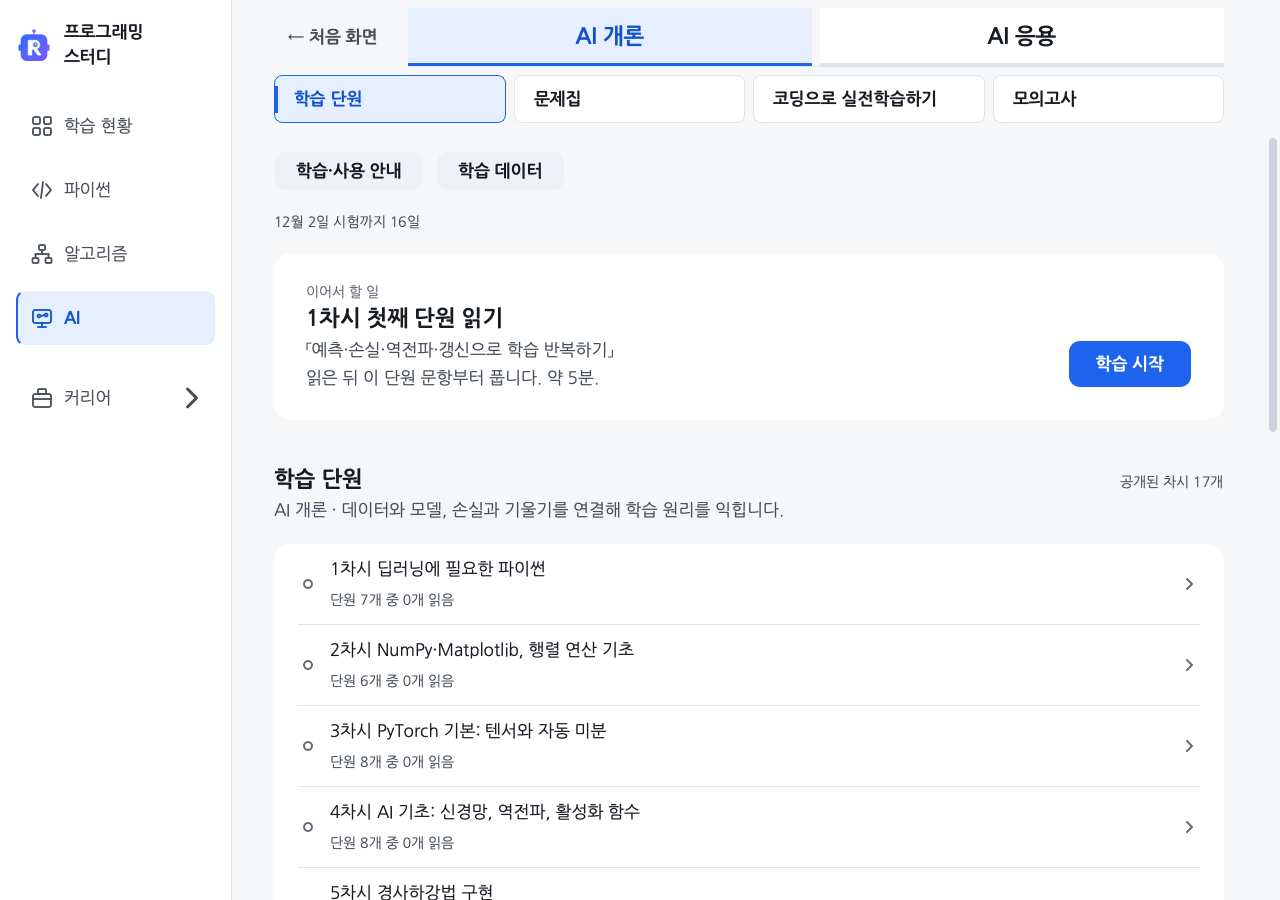
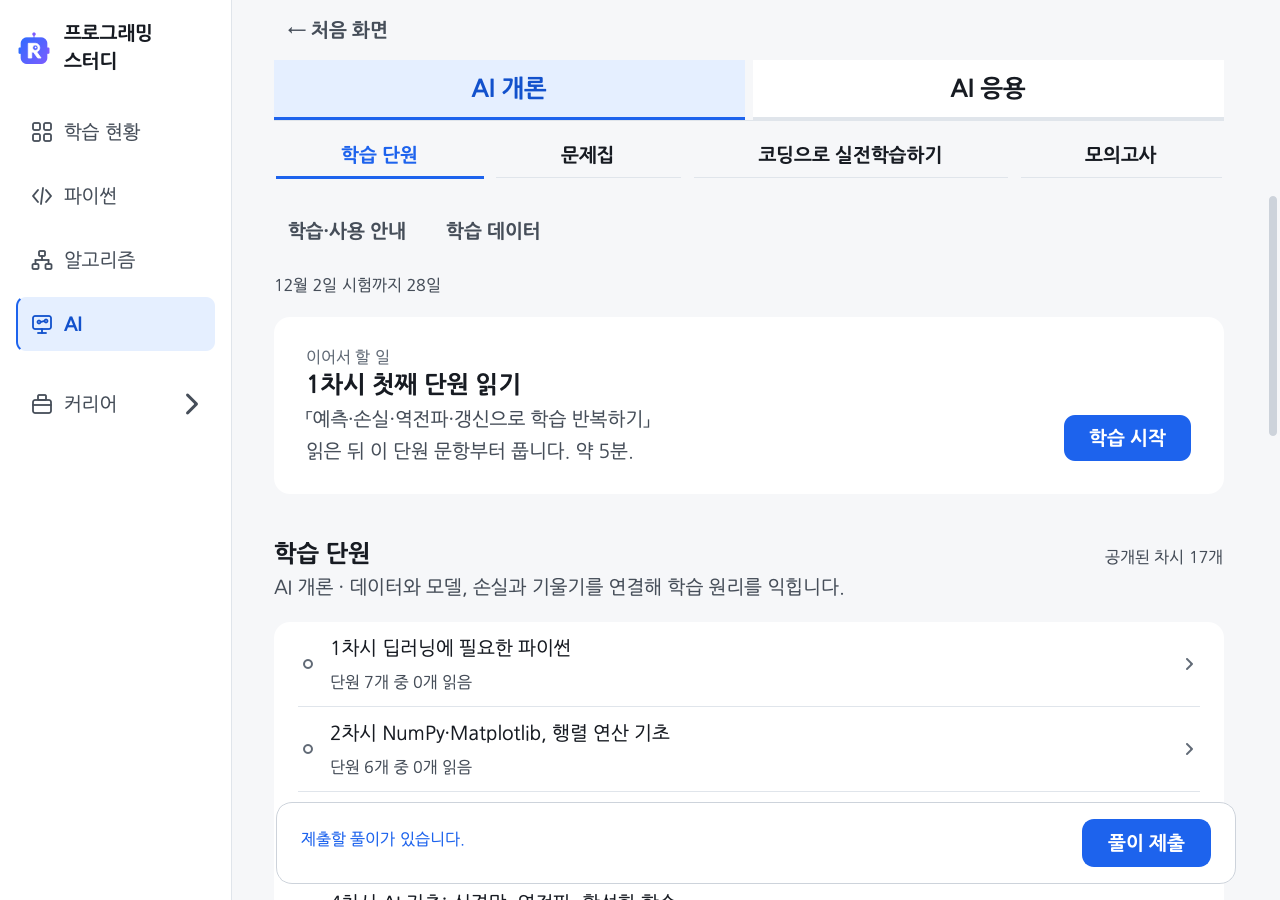
fix(ui): AI 과정과 학습 메뉴의 탐색 구조 정리 (#255)

diff --git a/gui/section_browser.py b/gui/section_browser.py
@@ -10,7 +10,7 @@ from gui import kit, theme
 
 
 class SectionButton(QPushButton):
-    """긴 분류 이름을 줄이지 않고 같은 글자 시작점에 그림."""
+    """분류를 글자와 밑줄로 표시하고 긴 이름은 가용 폭 안에서 줄바꿈함."""
     def __init__(self, key, title, description):
         super().__init__(title)
         self.key = key
@@ -27,7 +27,7 @@ class SectionButton(QPushButton):
 
     def sizeHint(self):
         metrics = QFontMetricsF(theme.font("label", True))
-        return QSize(math.ceil(metrics.horizontalAdvance(self.text())) + 40,
+        return QSize(math.ceil(metrics.horizontalAdvance(self.text())) + 24,
                      max(48, theme.TYPE["label"][1] + 24))
 
     def minimumSizeHint(self):
@@ -35,7 +35,7 @@ class SectionButton(QPushButton):
 
     def heightForWidth(self, width):
         metrics = QFontMetricsF(theme.font("label", True))
-        bounds = metrics.boundingRect(QRectF(0, 0, max(1, width - 40), 1000),
+        bounds = metrics.boundingRect(QRectF(0, 0, max(1, width - 24), 1000),
                                       Qt.TextFlag.TextWordWrap, self.text())
         return max(self.sizeHint().height(), math.ceil(bounds.height()) + 24)
 
@@ -46,13 +46,12 @@ class SectionButton(QPushButton):
         option.text, option.icon = "", QIcon()
         painter.drawControl(QStyle.ControlElement.CE_PushButton, option)
         painter.setFont(theme.font("label", True))
-        painter.setPen(theme.qcolor("selection_ink" if self.isChecked() else "ink"))
-        painter.drawText(QRectF(self.rect()).adjusted(20, 8, -20, -8),
-                         Qt.AlignmentFlag.AlignLeft | Qt.AlignmentFlag.AlignVCenter | Qt.TextFlag.TextWordWrap,
+        painter.setPen(theme.qcolor("link" if self.isChecked() else "ink"))
+        painter.drawText(QRectF(self.rect()).adjusted(12, 8, -12, -8),
+                         Qt.AlignmentFlag.AlignHCenter | Qt.AlignmentFlag.AlignVCenter | Qt.TextFlag.TextWordWrap,
                          self.text())
-        if self.isChecked():
-            painter.setPen(QPen(theme.qcolor("link"), 3))
-            painter.drawLine(2, 12, 2, self.height() - 12)
+        painter.setPen(QPen(theme.qcolor("link" if self.isChecked() else "line"), 3 if self.isChecked() else 1))
+        painter.drawLine(3, self.height() - 4, self.width() - 3, self.height() - 4)
 
 
 class SectionBrowser(QWidget):
@@ -173,12 +172,11 @@ class SectionBrowser(QWidget):
     def refont(self):
         color = theme.color
         self.setStyleSheet(f"""
-            QPushButton#section_choice {{ background: {color('surface')}; color: {color('ink')};
-                border: 1px solid {color('line')}; border-radius: 8px; padding: 0;
+            QPushButton#section_choice {{ background: transparent; color: {color('ink')};
+                border: 2px solid transparent; border-radius: 0; padding: 0;
                 min-height: 0; max-height: 16777200px; min-width: 0; }}
             QPushButton#section_choice:hover {{ background: {color('hover')}; }}
-            QPushButton#section_choice:checked {{ background: {color('selection')}; border-color: {color('link')}; }}
-            QPushButton#section_choice:focus {{ border: 2px solid {color('focus')}; }}
+            QPushButton#section_choice:focus {{ border-color: {color('focus')}; }}
         """)
         self._place()
 
@@ -187,18 +185,24 @@ class SectionBrowser(QWidget):
             return
         buttons = list(self.buttons.values())
         width = max(1, self.navigation.width())
-        needed = max(button.sizeHint().width() for button in buttons)
-        columns = len(buttons) if width >= needed * len(buttons) + 8 * (len(buttons) - 1) else min(2, len(buttons))
+        needed = [max(button.sizeHint().width(), button.minimumSizeHint().width()) for button in buttons]
+        single_line = width >= sum(needed) + self.grid.spacing() * (len(buttons) - 1)
+        columns = len(buttons) if single_line else min(2, len(buttons))
         if columns != self.columns:
             self.columns = columns
             for button in buttons:
                 self.grid.removeWidget(button)
             for number, button in enumerate(buttons):
                 self.grid.addWidget(button, number // columns, number % columns)
-            for column in range(len(buttons)):
-                self.grid.setColumnStretch(column, 1 if column < columns else 0)
-        cell_width = max(1, (width - 8 * (columns - 1)) // columns)
-        height = max(button.heightForWidth(cell_width) for button in buttons)
+        available = max(1, width - self.grid.spacing() * (columns - 1))
+        if single_line:
+            extra = (available - sum(needed)) // columns
+            widths = [size + extra for size in needed]
+        else:
+            widths = [max(1, available // columns)] * len(buttons)
+        for column in range(len(buttons)):
+            self.grid.setColumnStretch(column, widths[column] if column < columns else 0)
+        height = max(button.heightForWidth(cell_width) for button, cell_width in zip(buttons, widths))
         for button in buttons:
             button.setFixedHeight(height)
 
@@ -222,8 +226,9 @@ class SectionBrowser(QWidget):
                      Qt.Key.Key_Up: -self.columns, Qt.Key.Key_Down: self.columns}
             if key in moves or key in (Qt.Key.Key_Home, Qt.Key.Key_End):
                 index = 0 if key == Qt.Key.Key_Home else len(buttons) - 1 if key == Qt.Key.Key_End else (at + moves[key]) % len(buttons)
-                buttons[index].setFocus(Qt.FocusReason.TabFocusReason)
-                self.select(buttons[index].key)
+                if index != at:
+                    buttons[index].setFocus(Qt.FocusReason.TabFocusReason)
+                    self.select(buttons[index].key)
                 return True
             if key in (Qt.Key.Key_Return, Qt.Key.Key_Enter):
                 if not event.isAutoRepeat():

diff --git a/tests/test_gui_section_browser.py b/tests/test_gui_section_browser.py
@@ -70,8 +70,12 @@ class AiSectionBrowserTest(AiTest):
                     self.assertEqual(courses[0].height(), courses[1].height())
                     heights.append(courses[0].height())
                     self.assertEqual(courses[0].mapTo(home, QPoint()).y(), courses[1].mapTo(home, QPoint()).y())
+                    self.assertEqual(courses[0].mapTo(home, QPoint()).x(),
+                                     browser.navigation.mapTo(home, QPoint()).x())
                     self.assertEqual(courses[1].mapTo(home, QPoint(courses[1].width(), 0)).x(),
                                      browser.navigation.mapTo(home, QPoint(browser.navigation.width(), 0)).x())
+                    self.assertLess(home.hub_btn.mapTo(home, QPoint(0, home.hub_btn.height())).y(),
+                                    courses[0].mapTo(home, QPoint()).y())
                     self.assertGreaterEqual(home.scroll.viewport().height(), 200)
                     for button in courses:
                         self.assertTrue(win.rect().contains(button.rect().translated(button.mapTo(win, QPoint()))))
@@ -80,12 +84,9 @@ class AiSectionBrowserTest(AiTest):
                     course_positions = [button.mapTo(home, QPoint()) for button in courses]
                     buttons = list(browser.buttons.values())
                     ys = {button.mapTo(home, QPoint()).y() for button in buttons}
-                    single_line_width = max(button.sizeHint().width() for button in buttons) * 4 + 24
+                    single_line_width = sum(max(button.sizeHint().width(), button.minimumSizeHint().width()) for button in buttons) + 24
                     self.assertEqual(1 if browser.navigation.width() >= single_line_width else 2, len(ys))
-                    if size[0] == 760:
-                        self.assertEqual(2, len(ys))
-                    elif not native:
-                        self.assertEqual(1, len(ys))
+                    self.assertEqual(1, len(ys))
                     self.assertEqual(1, len({button.height() for button in buttons}))
                     self.assertEqual(0, home.scroll.horizontalScrollBar().maximum())
                     before = [button.mapTo(home, QPoint()) for button in buttons]
@@ -93,7 +94,8 @@ class AiSectionBrowserTest(AiTest):
                         rectangle = button.rect().translated(button.mapTo(win, QPoint()))
                         self.assertTrue(win.rect().contains(rectangle))
                         metrics = QFontMetricsF(theme.font("label", True))
-                        text = metrics.boundingRect(QRectF(0, 0, button.width() - 40, 1000),
+                        self.assertGreaterEqual(button.width() - 24, metrics.horizontalAdvance(button.text()))
+                        text = metrics.boundingRect(QRectF(0, 0, button.width() - 24, 1000),
                                                     Qt.TextFlag.TextWordWrap, button.text())
                         self.assertLessEqual(text.height(), button.height() - 16)
                         self.assertTrue(button.accessibleName())
@@ -208,13 +210,48 @@ class AiSectionBrowserTest(AiTest):
         QTest.keyClick(home.course_tabs.buttons[0], Qt.Key.Key_Tab)
         self.assertTrue(browser.buttons["lessons"].hasFocus())
         QTest.keyClick(browser.buttons["lessons"], Qt.Key.Key_Down)
-        self.assertTrue(browser.buttons["coding"].hasFocus())
-        QTest.keyClick(browser.buttons["coding"], Qt.Key.Key_Up)
+        self.assertTrue(browser.buttons["lessons"].hasFocus())
+        self.assertIsNone(browser.pending)
         QTest.keyClick(browser.buttons["lessons"], Qt.Key.Key_Right)
         QTest.keyClick(browser.buttons["books"], Qt.Key.Key_Home)
         self.assertTrue(browser.buttons["lessons"].hasFocus())
         QTest.keyClick(browser.buttons["lessons"], Qt.Key.Key_Tab)
         self.assertTrue(home.guide_btn.hasFocus())
+
+    def test_narrow_category_row_wraps_and_keyboard_follows_visual_rows(self):
+        win, home, browser = self.home()
+        win.set_text("larger")
+        browser.setFixedWidth(480)
+        self.settle()
+        buttons = list(browser.buttons.values())
+        self.assertEqual(2, browser.columns)
+        self.assertEqual(2, len({button.mapTo(home, QPoint()).y() for button in buttons}))
+        for button in buttons:
+            text = QFontMetricsF(button.font()).boundingRect(
+                QRectF(0, 0, button.width() - 24, 1000), Qt.TextFlag.TextWordWrap, button.text())
+            self.assertLessEqual(text.width(), button.width() - 24)
+            self.assertLessEqual(text.height(), button.height() - 16)
+        buttons[0].setFocus()
+        QTest.keyClick(buttons[0], Qt.Key.Key_Down)
+        self.assertTrue(buttons[2].hasFocus())
+        self.assertEqual("coding", browser.current)
+        QTest.keyClick(buttons[2], Qt.Key.Key_Up)
+        self.assertTrue(buttons[0].hasFocus())
+        browser.setMaximumWidth(16777215)
+        browser.setMinimumWidth(0)
+        self.settle()
+        self.assertEqual(4, browser.columns)
+        win.set_text("normal")
+        self.settle()
+        needed = sum(max(button.sizeHint().width(), button.minimumSizeHint().width()) for button in buttons) + 24
+        browser.navigation.setFixedWidth(needed - 1)
+        self.settle()
+        self.assertEqual(2, browser.columns)
+        browser.navigation.setFixedWidth(needed)
+        self.settle()
+        self.assertEqual(4, browser.columns)
+        for button in buttons:
+            self.assertGreaterEqual(button.width() - 24, QFontMetricsF(button.font()).horizontalAdvance(button.text()))
 
     def test_partial_read_error_and_mock_error_are_visible_in_their_lists(self):
         win, home, browser = self.home()

diff --git a/gui/ai_home.py b/gui/ai_home.py
@@ -4,6 +4,7 @@
 읽던 단계, 단원 연습, 날짜를 띄운 복습 기록을 구분해 표시함.
 분류 선택을 고정하고 현재 과정의 목록과 공개 준비 상태를 표시함.
 혼합 모의고사는 두 탭에서 같은 응시 기록을 사용함."""
+from PyQt6.QtCore import Qt
 from PyQt6.QtWidgets import QWidget
 
 from aiprep import bank, mixed_mock
@@ -24,9 +25,9 @@ class AiHomePage(QWidget):
         outer = kit.box(self)
         header = QWidget()
         row = kit.box(header, (0, theme.GAP["detail"], 0, 0),
-                      spacing=theme.GAP["paragraph"], horizontal=True)
+                      spacing=theme.GAP["detail"])
         self.hub_btn = kit.button("← 처음 화면", "text", "m", onbg=True)
-        row.addWidget(self.hub_btn)
+        row.addWidget(self.hub_btn, 0, Qt.AlignmentFlag.AlignLeft)
         self.course_tabs = kit.NavigationTabs(["AI 개론", "AI 응용"], deferred=True)
         self.course_tabs.setAccessibleName("AI 학습 과정")
         for tab, description in zip(self.course_tabs.buttons, (
@@ -35,14 +36,14 @@ class AiHomePage(QWidget):
             tab.setToolTip(description)
             tab.setAccessibleDescription(description)
         self.course_tabs.picked.connect(lambda n: self.win.switch_ai_course(("intro", "app")[n]))
-        row.addWidget(self.course_tabs, 1)
+        row.addWidget(self.course_tabs)
         self.browser = SectionBrowser(header=header)
         self.scroll = self.browser.scroll
         outer.addWidget(self.browser, 1)
         from gui import ai_guide
-        self.guide_btn = kit.button("학습·사용 안내")
+        self.guide_btn = kit.button("학습·사용 안내", "text", onbg=True)
         self.guide_btn.clicked.connect(lambda: ai_guide.open_guide(self))
-        self.data_btn = kit.button("학습 데이터")
+        self.data_btn = kit.button("학습 데이터", "text", onbg=True)
         self.data_btn.clicked.connect(self.open_data)
         guide_flow = QWidget()
         flow = kit.FlowLayout(guide_flow, spacing=12)

diff --git a/docs/CHANGE_IMPACT.md b/docs/CHANGE_IMPACT.md
@@ -65,7 +65,7 @@ flowchart TD
 | 제출 버튼·자동 연결·결과 안내 | 최신 동의·철회·파일 유무·대기 접수·기존 서버·작업 중 상태·파일 목록 | 이미 동의한 사용자에게 확인창을 반복하거나, 응답 유실 후 원래 파일로 되돌린 풀이의 접수를 놓칠 수 있습니다. 시험의 통신 대체가 빠지면 운영 서버로 시험 자료를 보낼 수 있으므로 외부 통신도 차단합니다. |
 | 묶음 완료·시작 시 파일 자동 제출 | 별도 추가 선택·연구 동의 시작점·과목 수집 중단·철회·지연 응답·종료·수동 제출·이전 클라이언트 | 기존 동의를 파일 전송 동의로 확대하거나 같은 파일을 반복 전송할 수 있습니다. 전송 직전에 선택을 다시 대조하고 중복 작업을 막으며, 같은 파일의 크기·인증 오류를 반복하지 않습니다. 기존 연구 기록 전송은 유지합니다. |
 | 개론·응용 전환과 자료 재사용 | 자료 파일 변경, 학습자·과정별 기록, 중단한 연습, 모의고사 마감, 탭 선택 표시 | 이전 내용을 새 탭 아래에 표시하거나 바뀐 기록·자료를 놓칠 수 있습니다. 재진입하면서 시험 시간을 새로 시작해서도 안 됩니다. |
-| AI 홈의 분류 선택 (`gui/ai_home.py`·`gui/section_browser.py`) | 공통 과정 탭·분류 부품, 상단 탐색의 같은 너비, 4열·2열 배치, 글자 확대·두 테마, 키보드 초점, 학습자·과정·분류별 스크롤, 안내·데이터 버튼 위치 | 상단과 하위 분류의 정렬, 작은 창의 본문 공간, 과정별 목록과 읽던 위치를 확인합니다. 분류 선택은 고정하고 목록 배치 뒤 위치를 복원합니다. 안내·데이터 버튼은 학습 단원에만 두며 다른 분류에서 목록 공간을 차지하지 않는지 확인합니다. 빈 목록의 준비 안내와 읽기 실패를 구분하며 응용의 코딩 분류도 유지합니다. |
+| AI 홈의 분류 선택 (`gui/ai_home.py`·`gui/section_browser.py`) | 공통 과정 탭·분류 부품, 항목별 글자 폭과 4열·2열 배치, 두 테마·글자 확대, 학습자·과정·분류별 스크롤, 안내·데이터 버튼 위치 | 과정 탭과 하위 메뉴의 위계·본문 양끝을 맞추고 작은 창에서도 모의고사와 읽을 공간이 보이는지 확인합니다. 한 줄·두 줄 전환 뒤 키보드 이동과 과정별 읽던 위치를 대조합니다. 안내·데이터 버튼은 학습 단원에만 두고 빈 목록의 준비 안내와 읽기 실패를 구분합니다. 배치를 바꾸면 사용 안내의 캡처와 강조 좌표도 갱신합니다. |
 | 코딩으로 실전학습하기 명칭 | 홈·단원 제목·오답 묶음, 학습 안내·화면 사진, 기존 자료·기록 식별자 | 화면과 안내가 서로 다른 이름을 쓰거나 이름 변경으로 기존 풀이를 찾지 못할 수 있습니다. 표시 이름을 맞추고 기존 식별자와 기록은 유지합니다. |
 | 개론·응용 혼합 모의고사 | 회차 배분, 문항별 과정, 공통 답안·마감, 동의 기간, 채점 공개 시각, 오답 복습 | 탭마다 같은 시험을 새로 시작하거나 응용 답을 개론으로 수집할 수 있습니다. 두 탭에서 같은 응시 기록을 쓰고 문항의 과정을 실제 지문과 대조합니다. 함께 공개된 채점 결과를 그보다 앞선 예측 입력에 넣지 않습니다. |
 | 모의고사 회차 추가·오답 변형 연결 | 기존 회차 해시, 초안 복원, 문항별 과정, 복습 후보·간격, 생성 조건과 연습 기록 | 새 문항을 기존 답에 소급 적용하지 않습니다. 원문항과 변형의 한 쌍이 문항군·생성기 상한에 걸려 빠지거나 다른 과정의 후보가 섞이는지 확인합니다. 변형을 푼 결과로 첫 모의고사 점수를 바꾸지 않습니다. |

diff --git a/ai/README.md b/ai/README.md
@@ -8,7 +8,7 @@
 
 ROKEY AI 개론·응용의 개념과 코드를 익히는 트랙입니다. 차시마다 학습 단원을 읽고 그 단원에서 나온 빈칸·고르기 문제를 풉니다. 맞힌 문항도 며칠 간격을 두고 다시 나옵니다. 원하는 만큼 읽고 연습하세요. 개론 1\~17차시와 코딩 실습, 개론 모의고사 m1·m2·m3, 응용 1\~3차시와 [혼합 모의고사 m4·m5](#mixed-mock-exam)를 사용할 수 있습니다.
 
-첫 화면이나 왼쪽 메뉴에서 [AI]를 고르고 [AI 개론]·[AI 응용] 중 공부할 과정을 선택합니다. 선택한 과정에는 파란 배경과 밑줄이 표시됩니다. 그 아래 [학습 단원]·[문제집]·[코딩으로 실전학습하기]·[모의고사] 중 원하는 분류를 누릅니다. 선택한 분류의 목록만 표시하며 목록을 내려도 분류 선택은 화면 위에 남습니다. 프로그램을 켜 둔 동안 과정별 분류 선택과 각 목록의 읽던 위치를 기억합니다.
+첫 화면이나 왼쪽 메뉴에서 [AI]를 고르고 위쪽의 큰 탭에서 [AI 개론]·[AI 응용] 중 공부할 과정을 선택합니다. 선택한 과정에는 파란 배경과 밑줄이 표시됩니다. 그 아래 [학습 단원]·[문제집]·[코딩으로 실전학습하기]·[모의고사] 중 하나를 누르면 해당 목록이 열리고 메뉴 아래에 파란 밑줄이 표시됩니다. 목록을 내려도 과정 탭과 학습 메뉴는 화면 위에 남습니다. 프로그램을 켜 둔 동안 과정별 메뉴 선택과 각 목록의 읽던 위치를 기억합니다.
 
 [AI] → [학습 단원]에서 [학습·사용 안내]와 [학습 데이터]를 엽니다. [학습·사용 안내]는 실제 화면에 번호와 테두리를 표시한 안내 팝업입니다. [이전]·[다음]으로 넘기며 따라 하고 작은 글씨는 [크게 보기]로 확인합니다. 학습 단원을 읽고 [연습 시작]으로 문제를 푼 뒤 [문제집]에서 복습할 수 있습니다.
 
